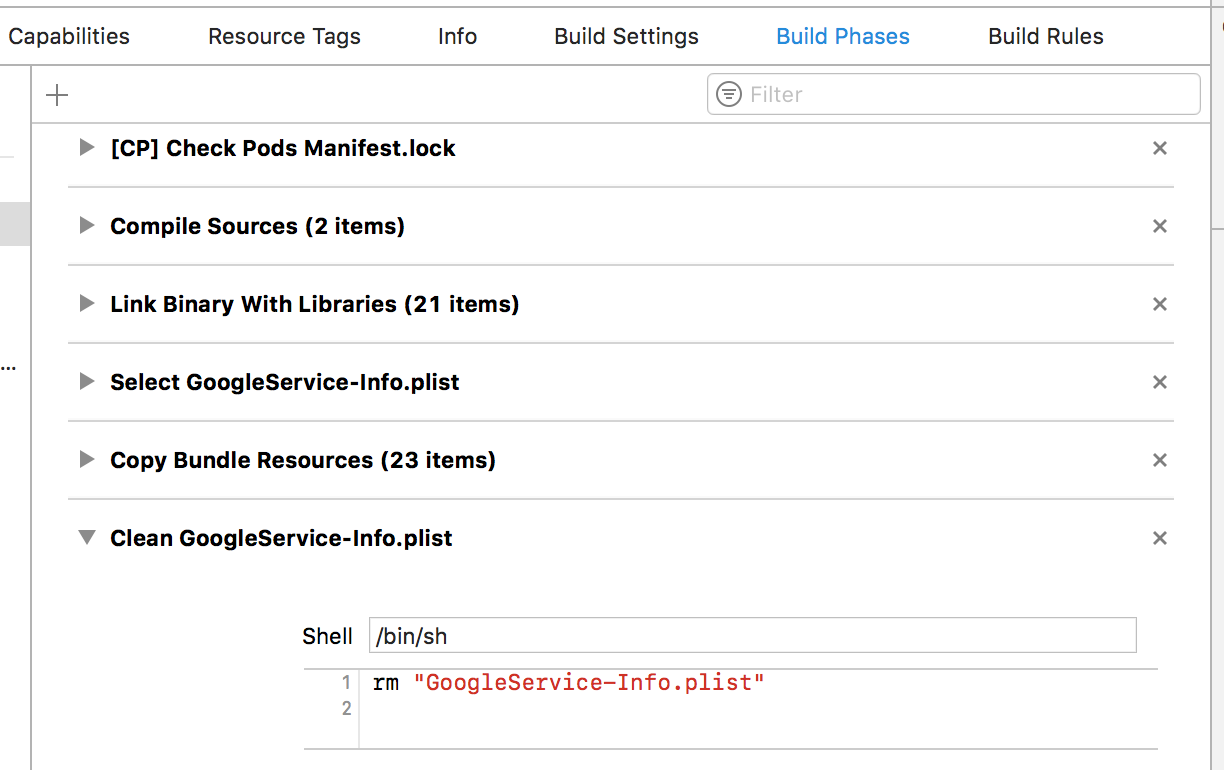
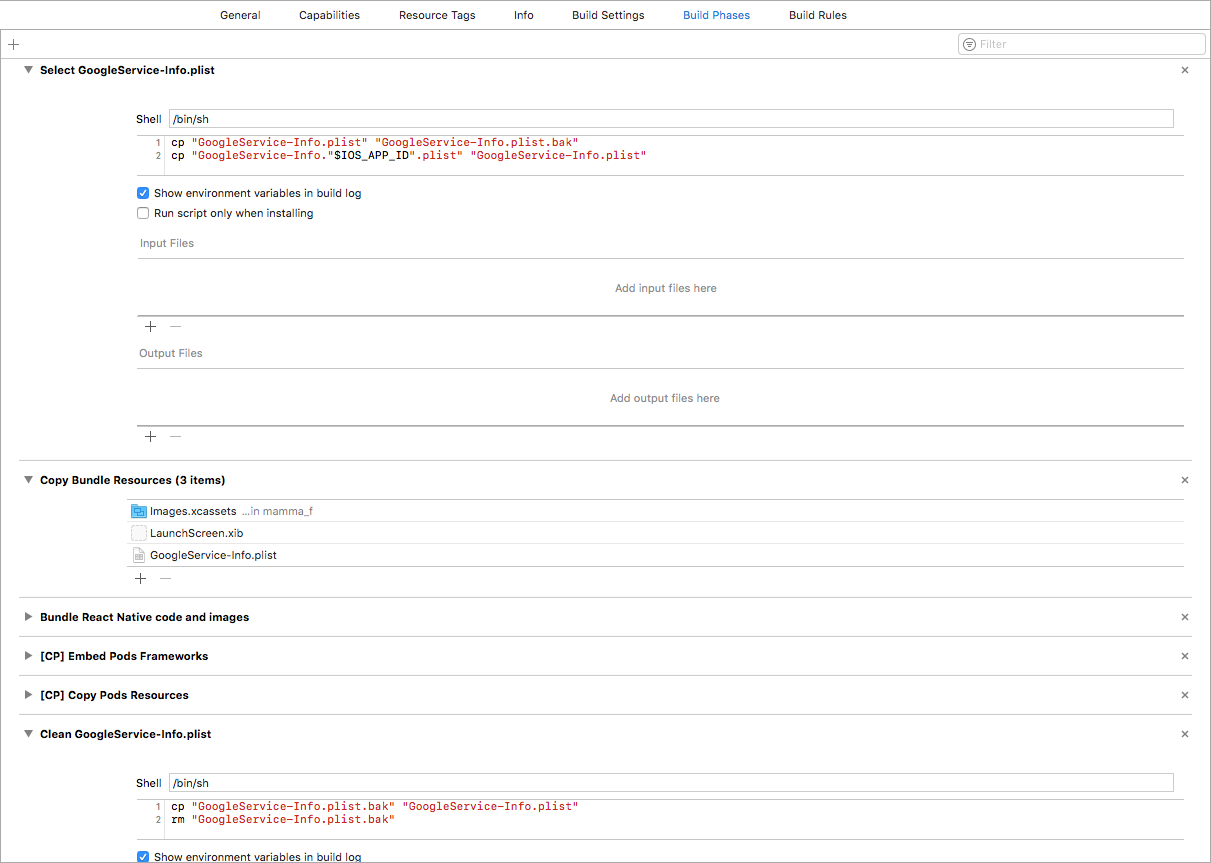
:bug: (firebase) Correct firebase multiple environments setup with the asynchronous way and pros an…

diff --git a/react-native/setup/setup_firebase_multiple_envs.mo.md b/react-native/setup/setup_firebase_multiple_envs.mo.md
@@ -2,6 +2,8 @@
 
 ## Owner: [Louis Lagrange](https://github.com/Minishlink)
 
+Correcter: Thomas Pucci
+
 ## Prerequisites *(~30min)*
 
 - [ ] An Android or iOS app with the Firebase SDK installed
@@ -11,6 +13,17 @@
     - [Android](https://rnfirebase.io/docs/v3.1.*/installation/android)
 - Be careful, when you're using specific modules of firebase, like analytics, you may have to add some `compile` to the `gradle` and some external pods
 
+
+## Foreword
+
+You can install and setup Firebase with two different ways:
+
+|   | Javascript asynchronous setup | Native synchronous setup  |
+|---|---|---|
+|  Pros |  - 👍 No Native code is required<br> - ⏩ Setup is quick | - 🚀 In your application, you do not need to wait for firebase to instantiate each time you need it<br> - ✅ You can use Firebase Phone Authentication  |
+|  Cons |  ⚠ You **cannot** use this setup if you aim to use Firebase Phone Authentication as it requires the default Firebase app to be setup (meaning the native synchronous setup to be done: see the paragraph ℹ *Important note* [here](https://rnfirebase.io/docs/v3.2.x/core/initialize-apps)) | 📲 You need install native libraries  |
+
+This MO aims to setup Firebase with the **Native synchronous setup**. For the **Javascript asynchronous setup** read the [docs here](https://rnfirebase.io/docs/v3.2.x/core/initialize-apps); and each time you need to call Firebase in your JS code, wait for the Firebase app initialization with `onReady()` method.
 
 ## Steps *(~30min)*
 
@@ -44,8 +57,11 @@ On iOS, there is one Firebase configuration file per environment.
 5. Download the configuration file `GoogleService-Info.plist` and rename it like `GoogleService-Info.{APP_IDENTIFIER}.plist`
    * Example: for `tech.bam.myApp.staging`, `GoogleService-Info.tech.bam.myApp.staging.plist`
 6. Repeat steps 3 to 5 for all your environments
-7. Put your configuration files in the root of your iOS app folder (`ios` in React-Native)
-8. Make sure that your app identifier is injected in your `.pbxproj`. For example, if you're using Fastlane, add a `update_app_identifier` step like:
+7. Duplicate your configuration file for dev environement two times and rename them like so:
+   * `GoogleService-Info.plist`
+   * `GoogleService-Info..plist`
+8. Put all your configuration files in the root of your iOS app folder (`ios` in React-Native)
+9. Make sure that your app identifier is injected in your `.pbxproj`. For example, if you're using Fastlane, add a `update_app_identifier` step like:
 ```ruby
 update_app_identifier(
   xcodeproj: xcodeproj_full_path,
@@ -53,18 +69,28 @@ update_app_identifier(
   app_identifier: ENV['APP_IDENTIFIER']
 )
 ```
-9. In XCode, in `Build phases`, add a `Select GoogleService-Info.plist` build step before the `Copy Bundle Resources` step that contains:
-```bash
-cp "GoogleService-Info."$PRODUCT_BUNDLE_IDENTIFIER".plist" "GoogleService-Info.plist"
+If you bootstrapped your project with BAM generator, use the following in the iOS build lane:
+```ruby
+update_app_identifier(
+  xcodeproj: xcodeproj,
+  plist_path: ENV['IOS_PLIST_PATH'],
+  app_identifier: ENV['IOS_APP_ID']
+)
 ```
-10. In XCode, in `Build phases`, add a `Clean GoogleService-Info.plist` build step after the `Copy Bundle Resources` step that contains:
+10. In XCode, in `Build phases`, add a `Select GoogleService-Info.plist` build step before the `Copy Bundle Resources` step that contains:
 ```bash
-rm "GoogleService-Info.plist"
+cp "GoogleService-Info.plist" "GoogleService-Info.plist.bak"
+cp "GoogleService-Info."$IOS_APP_ID".plist" "GoogleService-Info.plist"
 ```
-11. Make sure that the `GoogleService-Info.plist` is listed in the resources of the `Copy Bundle Resources` step
-12. You might want to add `GoogleService-Info.*.plist` in your `.gitignore`
+11. In XCode, in `Build phases`, add a `Clean GoogleService-Info.plist` build step after the `Copy Bundle Resources` step that contains:
+```bash
+cp "GoogleService-Info.plist.bak" "GoogleService-Info.plist"
+rm "GoogleService-Info.plist.bak"
+```
+12. Make sure that the `GoogleService-Info.plist` is listed in the resources of the `Copy Bundle Resources` step
+13. You might want to add `GoogleService-Info.*.plist` in your `.gitignore`
 
-![steps](assets/ios_steps.png)
+![XCode Setup](assets/ios_steps.png)
 
 ## Troubleshooting
 
